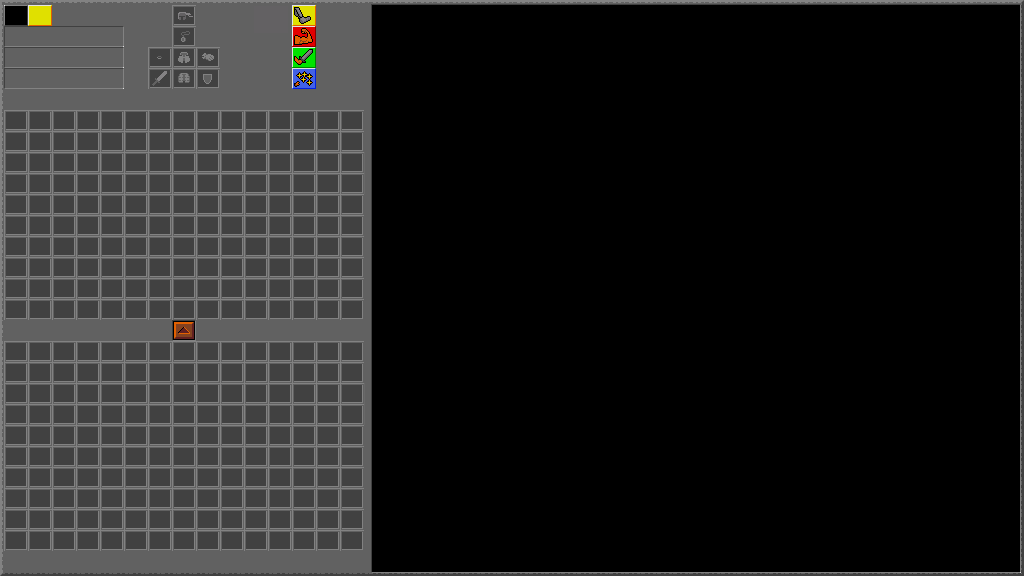
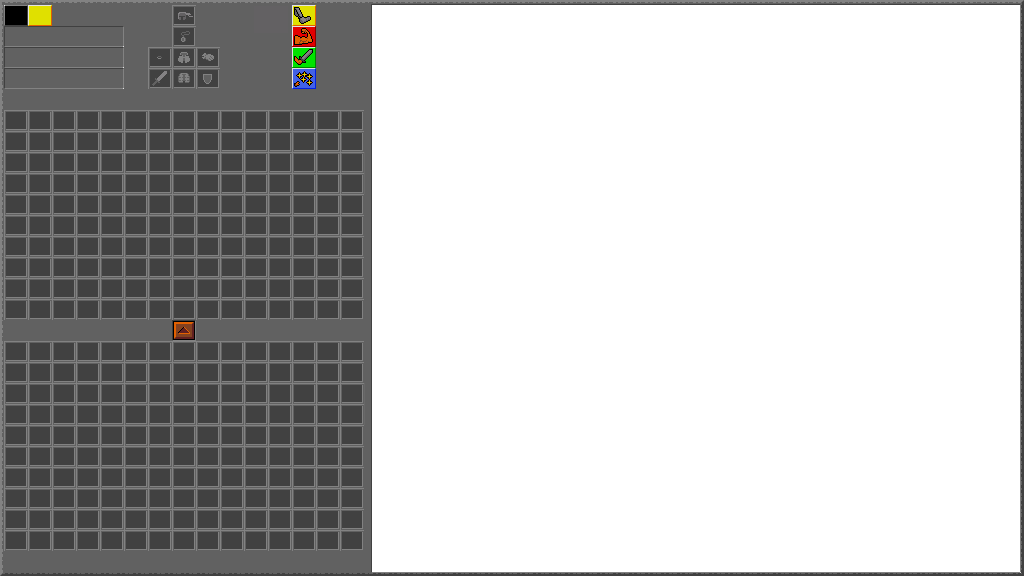
Add GUI scene

diff --git a/src/game.js b/src/game.js
@@ -1,169 +1,170 @@
-const config = {
-  type: Phaser.AUTO,
-  width: 1024,
-  height: 576,
-  parent: "game-container",
-  pixelArt: true,
-  scene: {
-    preload: preload,
-    create: create,
-    update: update
-  }
-};
-
-const game = new Phaser.Game(config);
 const fov = new ROT.FOV.PreciseShadowcasting(isTransparent);
 let map;
 let player;
 let marker;
 let layer;
 
-function preload() {
-  this.load.spritesheet("tiles", "assets/images/tiles.png", {
-    frameWidth: 24,
-    frameHeight: 21
-  });
-  this.load.tilemapTiledJSON("map", "data/map.json");
-}
+const GameScene = new Phaser.Class({
 
-function create() {
+  Extends: Phaser.Scene,
 
-  map = this.make.tilemap({
-    key: "map"
-  });
+  initialize:
 
-  /** 
-   * Parameters are the name of the tileset in Tiled and then the key of the
-   * tileset image in Phaser's cache (i.e. the name used in preload)
-   */
-  const tileset = map.addTilesetImage("tiles", "tiles");
+    function GameScene() {
+      Phaser.Scene.call(this, {
+        key: 'GameScene'
+      });
+    },
 
-  /**
-   * Parameters: layer name (or index) from Tiled, tileset, x, y
-   */
-  layer = map.createDynamicLayer("tiles", tileset, 0, 0);
-  layer.forEachTile(tile => (tile.alpha = 0));
+  preload: function () {
+    this.load.spritesheet("tiles", "assets/images/tiles.png", {
+      frameWidth: 24,
+      frameHeight: 21
+    });
+    this.load.tilemapTiledJSON("map", "data/map.json");
+  },
 
-  /**
-   * Create player
-   */
-  const start = map.findObject("objects", obj => obj.name === "player");
-  player = this.add.sprite(start.x, start.y, "tiles", 25);
-  player.setOrigin(0);
-  showFOV(start.x, start.y);
+  create: function () {
 
-  /**
-   * Create pointer marker
-   */
-  marker = this.add.graphics();
-  marker.lineStyle(1, 0xffff00, 1);
-  marker.strokeRect(0, 0, map.tileWidth, map.tileHeight);
+    map = this.make.tilemap({
+      key: "map"
+    });
 
-  /**
-   * The default camera
-   */
-  const camera = this.cameras.main;
-  camera.startFollow(player);
+    /** 
+     * Parameters are the name of the tileset in Tiled and then the key of the
+     * tileset image in Phaser's cache (i.e. the name used in preload)
+     */
+    const tileset = map.addTilesetImage("tiles", "tiles");
 
-  /**
-   * Constrain the camera so that it isn't allowed to move outside the
-   * width/height of tilemap
-   */
-  camera.setBounds(0, 0, map.widthInPixels, map.heightInPixels);
-}
+    /**
+     * Parameters: layer name (or index) from Tiled, tileset, x, y
+     */
+    layer = map.createDynamicLayer("tiles", tileset, 0, 0);
+    layer.forEachTile(tile => (tile.alpha = 0));
 
-function update() {
+    /**
+     * Create player
+     */
+    const start = map.findObject("objects", obj => obj.name === "player");
+    player = this.add.sprite(start.x, start.y, "tiles", 25);
+    player.setOrigin(0);
+    this.showFOV(start.x, start.y);
 
-  var x, y, tile;
-
-  /**
-   * Convert the mouse position to world position within the camera
-   */
-  const worldPoint = 
-    this.input.activePointer.positionToCamera(this.cameras.main);
-
-  /**
-   * Define the next position of the player based on the position of the pointer
-   */
-  x = player.x;
-  y = player.y;
-  if (worldPoint.x > player.x + 24) {
-    x += 24;
-  } else if (worldPoint.x < player.x) {
-    x -= 24;
-  }
-  if (worldPoint.y > player.y + 21) {
-    y += 21;
-  } else if (worldPoint.y < player.y) {
-    y -= 21;
-  }
-  
-  /**
-   * Move the pointer marker to the next position
-   */
-  marker.x = x;
-  marker.y = y;
-  
-  /**
-   * Check if the next position if passable
-   */
-  tile = layer.getTileAtWorldXY(x, y);
-  if (!tile.properties.unpassable) {
-    
-    /** If passable turn the pointer yellow */
+    /**
+     * Create pointer marker
+     */
+    marker = this.add.graphics();
     marker.lineStyle(1, 0xffff00, 1);
     marker.strokeRect(0, 0, map.tileWidth, map.tileHeight);
+
+    /**
+     * The default camera
+     */
+    const camera = this.cameras.main;
+    camera.setPosition(372, 5);
+    camera.setSize(648, 567);
+    camera.startFollow(player, true, 1, 1, -12, -10);
+
+    /**
+     * Constrain the camera so that it isn't allowed to move outside the
+     * width/height of tilemap
+     */
+    camera.setBounds(0, 0, map.widthInPixels, map.heightInPixels);
+  },
+
+  update: function () {
+
+    var x, y, tile;
+
+    /**
+     * Convert the mouse position to world position within the camera
+     */
+    const worldPoint = 
+      this.input.activePointer.positionToCamera(this.cameras.main);
+
+    /**
+     * Define the next position of the player based on the position of the pointer
+     */
+    x = player.x;
+    y = player.y;
+    if (worldPoint.x > player.x + 24) {
+      x += 24;
+    } else if (worldPoint.x < player.x) {
+      x -= 24;
+    }
+    if (worldPoint.y > player.y + 21) {
+      y += 21;
+    } else if (worldPoint.y < player.y) {
+      y -= 21;
+    }
     
     /**
-     * Check if the player clicked
+     * Move the pointer marker to the next position
      */
-    if (this.input.manager.activePointer.justDown) {
+    marker.x = x;
+    marker.y = y;
+    
+    /**
+     * Check if the next position if passable
+     */
+    tile = layer.getTileAtWorldXY(x, y);
+    if (!tile.properties.unpassable) {
+      
+      /** If passable turn the pointer yellow */
+      marker.lineStyle(1, 0xffff00, 1);
+      marker.strokeRect(0, 0, map.tileWidth, map.tileHeight);
       
       /**
-       * Move the player towards the pointer
+       * Check if the player clicked
        */
-      player.x = x;
-      player.y = y;
+      if (this.input.manager.activePointer.justDown) {
+        
+        /**
+         * Move the player towards the pointer
+         */
+        player.x = x;
+        player.y = y;
+
+        /**
+         * Update field of view
+         */
+        this.showFOV(x, y);
+      }
+    } else {
+      
+      /**
+       * If unpassable turn the pointer grey
+       */
+      marker.lineStyle(1, 0x888888, 1);
+      marker.strokeRect(0, 0, map.tileWidth, map.tileHeight);
+    }
+  },
+
+  showFOV: function (x, y) {
+
+    /**
+     * Overlay fog of war on every tile that was already visible
+     */
+    layer.forEachTile(tile => (tile.alpha = tile.alpha ? 0.3 : 0));
+
+    /**
+     * Find the visible tiles
+     */
+    tileXY = layer.worldToTileXY(x, y);
+    fov.compute(tileXY.x, tileXY.y, 12, function (x, y) {
 
       /**
-       * Update field of view
+       * Show the visible tiles
        */
-      showFOV(x, y);
-    }
-  } else {
-    
-    /**
-     * If unpassable turn the pointer grey
-     */
-    marker.lineStyle(1, 0x888888, 1);
-    marker.strokeRect(0, 0, map.tileWidth, map.tileHeight);
-  }
-}
+      var tile = layer.getTileAt(x, y);
+      if (tile) {
+        tile.alpha = 1;
+      }
+    });
+  },
+});
 
-function showFOV(x, y) {
-
-  /**
-   * Overlay fog of war on every tile that was already visible
-   */
-  layer.forEachTile(tile => (tile.alpha = tile.alpha ? 0.3 : 0));
-
-  /**
-   * Find the visible tiles
-   */
-  tileXY = layer.worldToTileXY(x, y);
-  fov.compute(tileXY.x, tileXY.y, 12, function (x, y) {
-
-    /**
-     * Show the visible tiles
-     */
-    var tile = layer.getTileAt(x, y);
-    if (tile) {
-      tile.alpha = 1;
-    }
-  });
-}
-
-function isTransparent(x, y) {
+function isTransparent (x, y) {
   var playerXY, tile;
 
   /**
@@ -174,3 +175,12 @@ function isTransparent(x, y) {
   return x === playerXY.x && y === playerXY.y 
     || tile && !tile.properties.opaque;
 }
+
+const game = new Phaser.Game({
+  type: Phaser.AUTO,
+  width: 1024,
+  height: 576,
+  parent: "game-container",
+  pixelArt: true,
+  scene: [GameScene, GUIScene]
+});

diff --git a/src/GUI.js b/src/GUI.js
@@ -1,0 +1,31 @@
+GUIScene = new Phaser.Class({
+
+  Extends: Phaser.Scene,
+
+  initialize:
+
+    function GUIScene() {
+      Phaser.Scene.call(this, {
+        key: 'GUIScene',
+        active: true
+      });
+    },
+
+  preload: function () {
+    this.load.image('ingame', 'assets/images/gui/ingame.png');
+  },
+  
+  create: function () {
+    
+    this.add.image(512, 288, 'ingame');
+    
+    //  Grab a reference to the Game Scene
+    var game = this.scene.get('GameScene');
+
+    //  Listen for events from it
+    game.events.on('specificEvent', function () {
+
+    }, this);
+  }
+
+});

diff --git a/index.html b/index.html
@@ -5,6 +5,7 @@
   <title>Rot Magus</title>
 	<script type="text/javascript" src="lib/phaser.js"></script>
 	<script type="text/javascript" src="lib/rot.js"></script>
+	<script type="text/javascript" src="src/GUI.js"></script>
 	<script type="text/javascript" src="src/game.js"></script>
   <style type="text/css">
       body {
